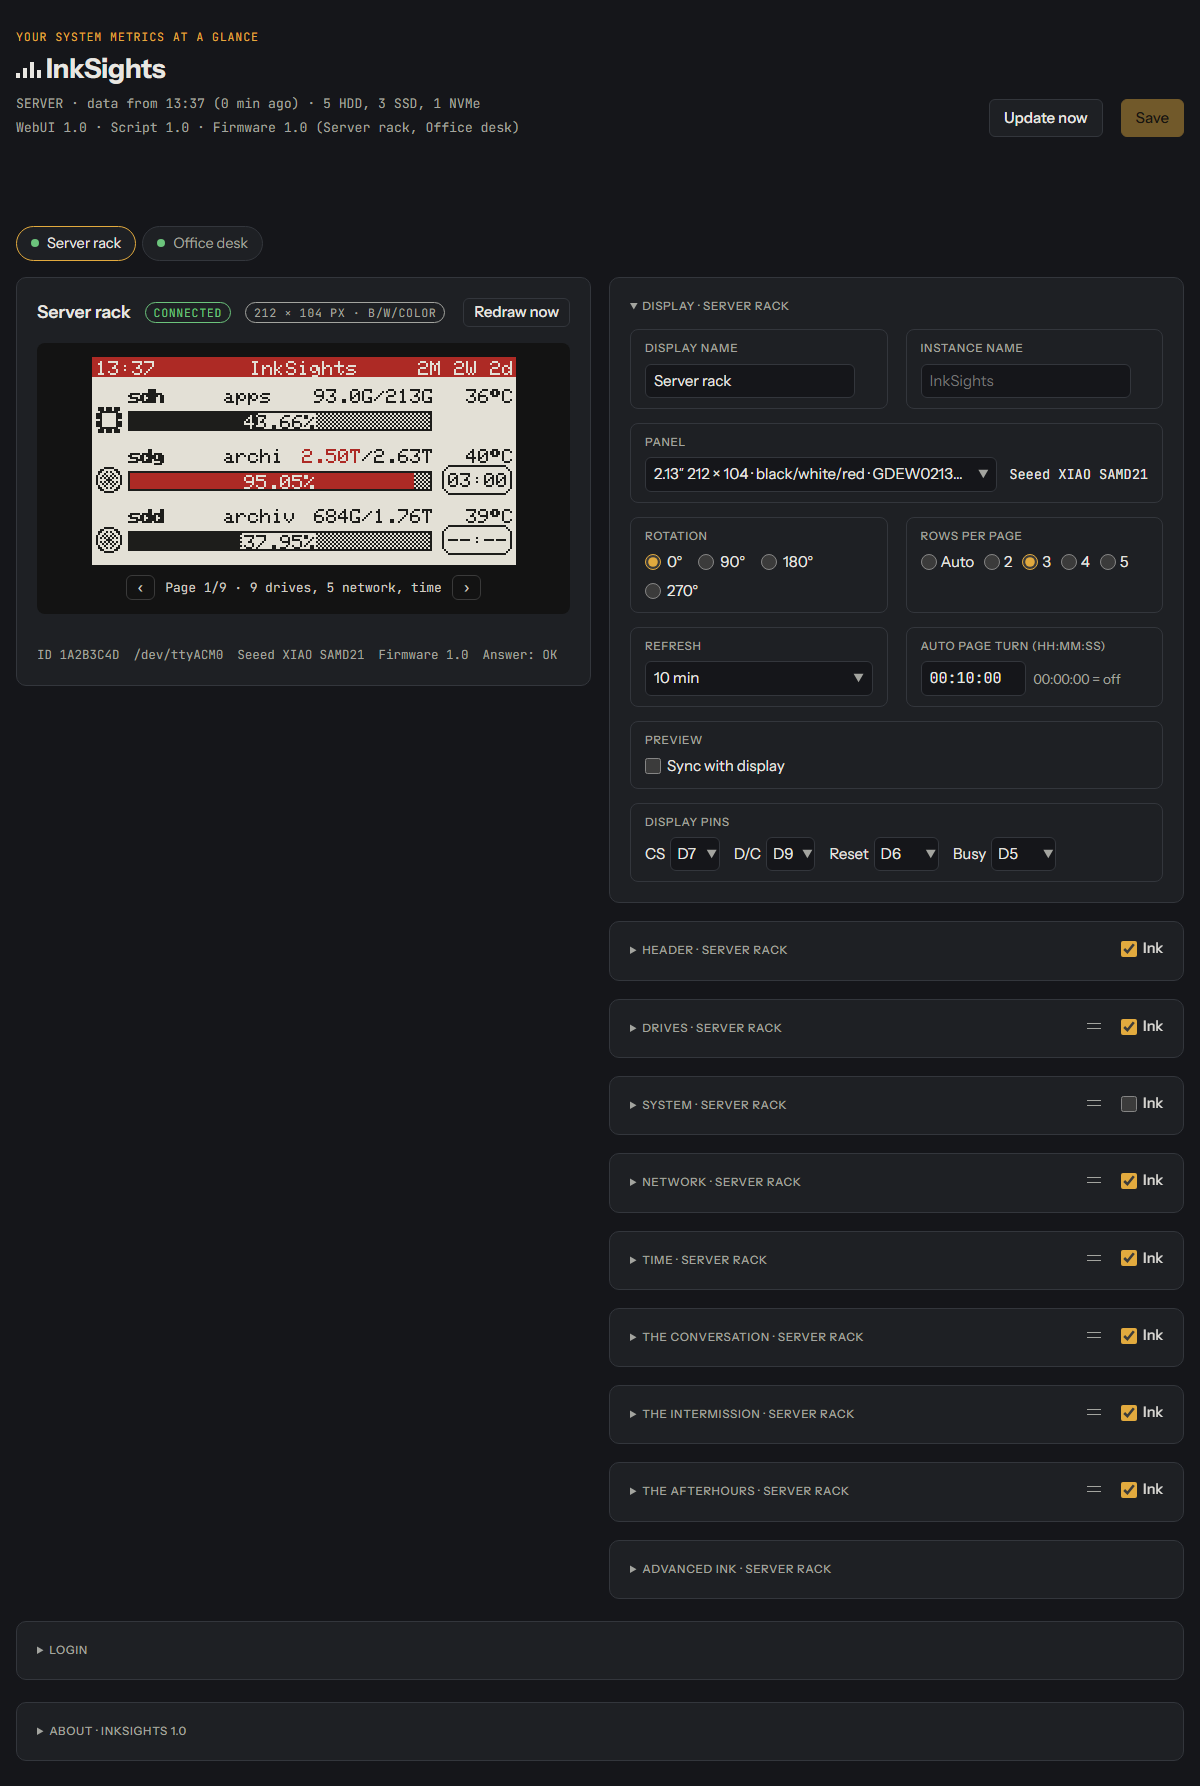
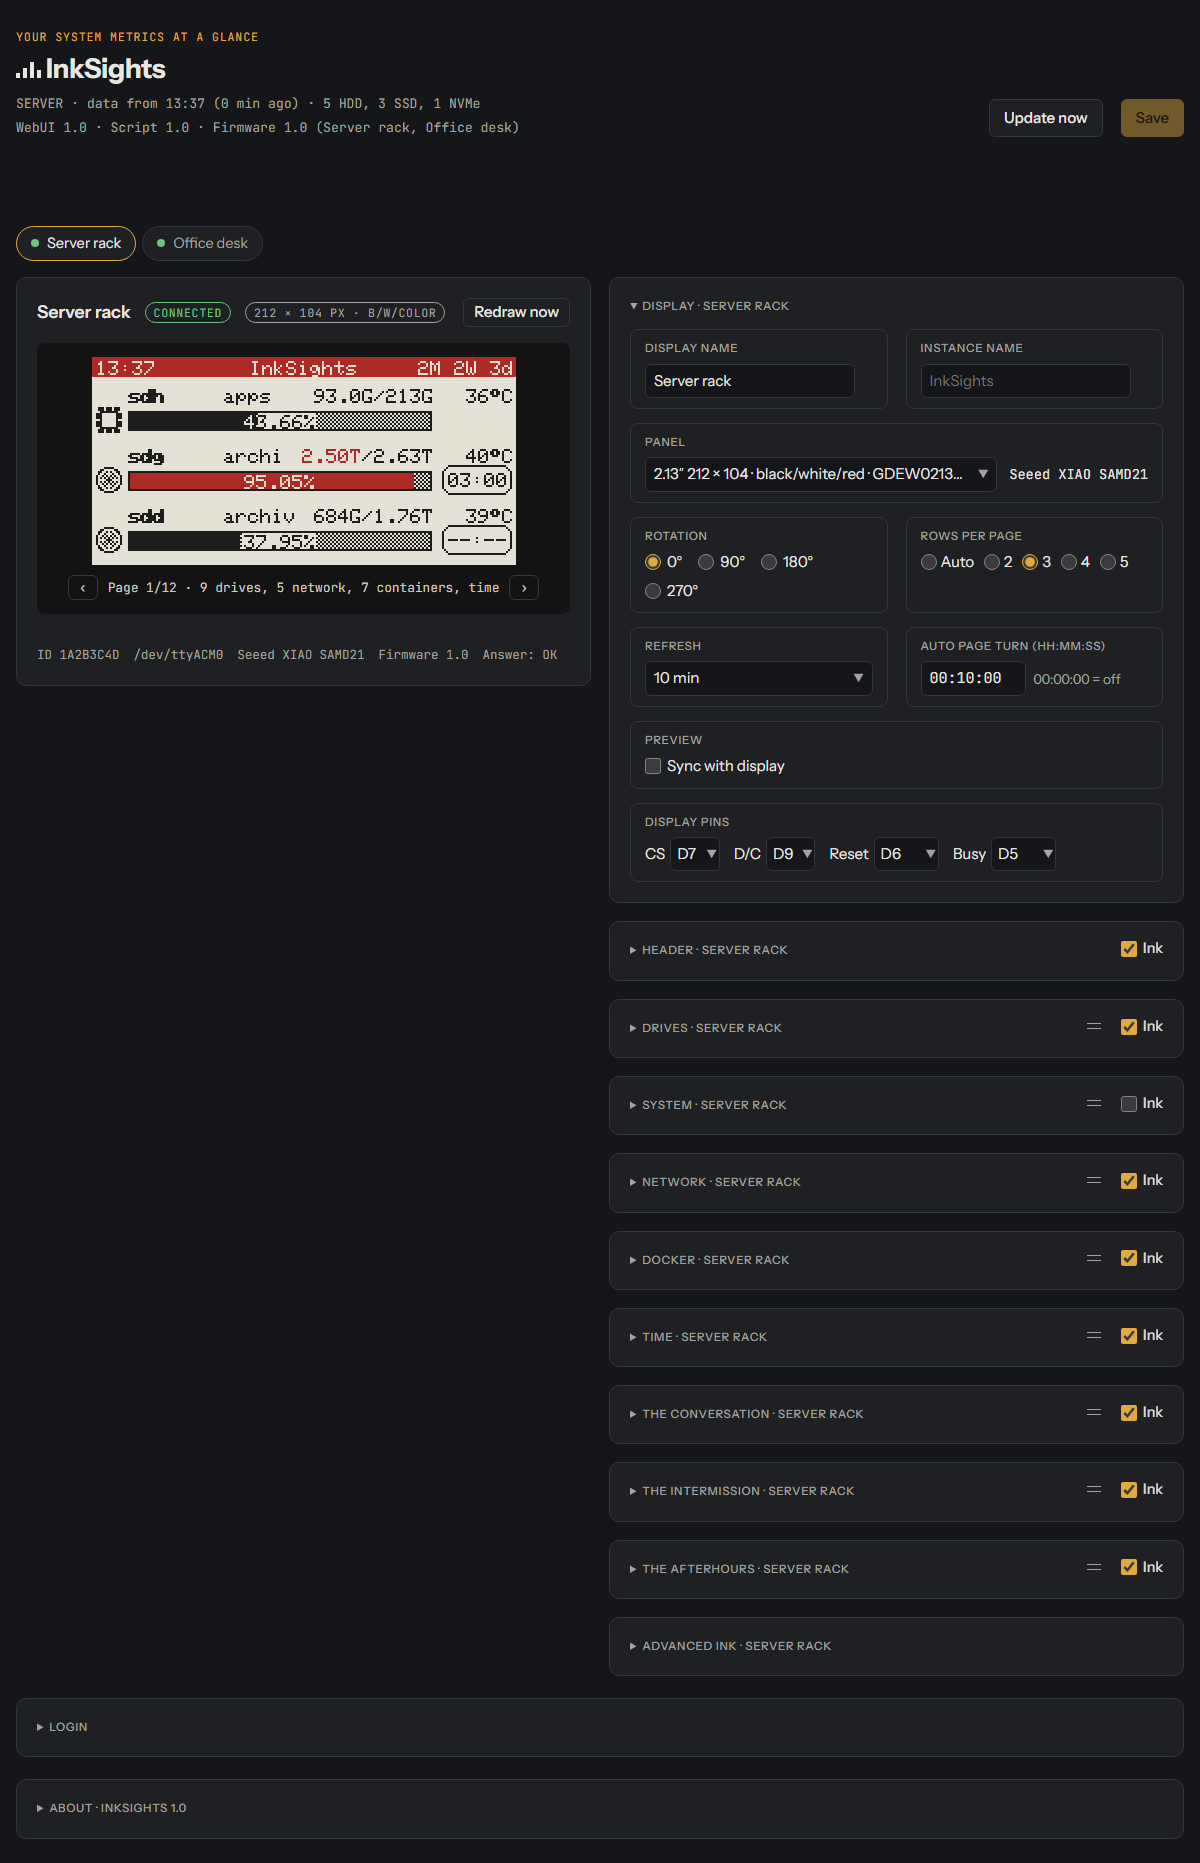
Docker On cue and card layout, settings page address without http://
- Simulator: Docker On cue (the page only when the filter finds a
  container), Show over the whole width, Icons | Highlight | Color
  highlight in one row; settings page pictures with the Docker card
- Settings page address: example http://server:8099 everywhere;
  typed without http:// it is put in front (settings page, USB page,
  the board's own setup page)

diff --git a/server/web/inksights-ui.js b/server/web/inksights-ui.js
@@ -112,6 +112,8 @@
   }
   const HOST_RE = /^[A-Za-z0-9-]{1,32}$/;
   const SERVER_RE = /^https?:\/\/[^\s|]{1,120}$/;
+  // the address of the settings page as typed: "server:8099" gets "http://" in front (user)
+  const serverAddr = v => { v = String(v || "").trim(); return v && !/^https?:\/\//i.test(v) ? "http://" + v : v; };
   const DEFAULT_WARN = 85;
   const DEFAULT_PAGE = 600;
   const DEFAULT_TITLE = "InkSights";   // the title of the top line when none is set (user; was the host name)
@@ -306,6 +308,7 @@
       if (![0, 1, 2, 3].includes(s.dockerFilter)) s.dockerFilter = 0;
       if (s.dockerColor !== 0 && s.dockerColor !== 1) s.dockerColor = 1;   // errors and updates in the third colour
       if (s.dockerHi !== 0 && s.dockerHi !== 1) s.dockerHi = 0;   // errors and updates in a box
+      if (s.dockerCue !== 0 && s.dockerCue !== 1) s.dockerCue = 0;   // On cue: the page only when the filter finds a container
       // order of the containers: state (errors, updates, the rest), name or custom; hidden ones (names)
       if (!["state", "name", "manual"].includes(s.dockerSort)) s.dockerSort = "state";
       if (!Array.isArray(s.dockerOrder)) s.dockerOrder = [];
@@ -379,7 +382,7 @@
           if (w.ssid.length > 32) out.push(`${who}: WiFi network max. 32 characters.`);
           if (typeof w.pass === "string" && w.pass && (w.pass.length < 8 || w.pass.length > 63)) out.push(`${who}: WiFi password 8 to 63 characters.`);
           if (w.host && !HOST_RE.test(w.host)) out.push(`${who}: host name only letters, digits and -, max. 32.`);
-          if (w.server && !SERVER_RE.test(w.server)) out.push(`${who}: settings page address like http://hostname:8099.`);
+          if (w.server && !SERVER_RE.test(serverAddr(w.server))) out.push(`${who}: settings page address like http://server:8099.`);
           if (typeof w.apPass === "string" && w.apPass && (w.apPass.length < 8 || w.apPass.length > 63)) out.push(`${who}: access point password 8 to 63 characters.`);
           if (!Number.isInteger(w.apDelay) || w.apDelay < 0 || w.apDelay > MAX_AP_DELAY) out.push(`${who}: access point after 0 to ${MAX_AP_DELAY} seconds.`);
         }
@@ -920,7 +923,9 @@
               wifiInput("ssid", "WiFi network", { maxlength: "32" }),
               wifiInput("pass", "Password", { type: "password", maxlength: "63", value: "", placeholder: w.passSet ? "unchanged" : "" })),
             el("div", { class: "wifi-box boxed" },
-              wifiInput("server", "Settings page", { maxlength: "120", placeholder: backend.serverAddress || "http://hostname:8099" }),
+              wifiInput("server", "Settings page", { maxlength: "120", placeholder: backend.serverAddress || "http://server:8099",
+                // typed without http://: it is put in front when the field is left
+                onchange: e => { e.target.value = w.server = serverAddr(e.target.value); changed(); } }),
               wifiInput("host", "Host name", { maxlength: "32", placeholder: `inksights-${id.toLowerCase()}` })),
             el("div", { class: "wifi-box boxed" },
               wifiInput("apSsid", "Access point name", { maxlength: "32", placeholder: DEFAULT_AP_SSID }),
@@ -1018,17 +1023,23 @@
       const dockerColBox = el("div", { class: "field boxed" }, el("span", { class: "label" }, "Color highlight"),
         radios("dockercol", [[1, "On"], [0, "Off"]], s.dockerColor, v => { s.dockerColor = v; }));
       setDisabled(dockerColBox, panel.colors === 2);
+      const dockerCueTick = el("input", { type: "checkbox", checked: s.dockerCue === 1, disabled: !s.dockerFilter,
+        onchange: e => { s.dockerCue = e.target.checked ? 1 : 0; pages[id] = 0; redraw(); } });
       const dockerCard = backend.docker ? subCard("dockerOpen", "Docker", true, "showDocker",
+        // Show over the whole width, below it Icons | Highlight | Color highlight in one row (user)
         el("div", { class: "form" },
-          el("div", { class: "wide one-two" },   // Icons a third, Show two thirds (user); Color highlight below Icons
+          el("div", { class: "field wide boxed" }, el("span", { class: "label" }, "Show"),
+            // On cue at the right end of the same row (user): the Docker page only when the filter finds a
+            // container; with All it always would
+            (() => { const r = radios("dockerfilter", [[0, "All"], [1, "Errors"], [2, "Updates"], [3, "Errors and updates"]], s.dockerFilter, v => { s.dockerFilter = v; dockerCueTick.disabled = !v; });
+              r.append(el("label", { class: "check push-right" }, dockerCueTick, "On cue")); return r; })()),
+          el("div", { class: "wide trio" },
             el("div", { class: "field boxed" }, el("span", { class: "label" }, "Icons"),
               radios("dockericons", [[1, "On"], [0, "Off"]], s.dockerIcons, v => { s.dockerIcons = v; })),
-            el("div", { class: "field boxed" }, el("span", { class: "label" }, "Show"),
-              radios("dockerfilter", [[0, "All"], [1, "Errors"], [2, "Updates"], [3, "Errors and updates"]], s.dockerFilter, v => { s.dockerFilter = v; })),
-            dockerColBox,
-            // beside Color highlight: errors and updates in a box (user)
+            // errors and updates in a box (user)
             el("div", { class: "field boxed" }, el("span", { class: "label" }, "Highlight"),
-              radios("dockerhi", [[1, "On"], [0, "Off"]], s.dockerHi, v => { s.dockerHi = v; })))),
+              radios("dockerhi", [[1, "On"], [0, "Off"]], s.dockerHi, v => { s.dockerHi = v; })),
+            dockerColBox)),
         // the order of the containers and which ones show, like the network interfaces (user)
         el("fieldset", { class: `set-${id}` },
           el("details", { class: "fold boxed field", open: pref(id, "dockerOrderOpen", true), ontoggle: e => setPref(id, "dockerOrderOpen", e.target.open) },
@@ -1530,7 +1541,7 @@
       const displays = {};
       for (const { id } of displayList()) {
         const s = settingsFor(id), w = s.wifi;
-        displays[id] = { ...s, wifi: { ssid: w.ssid, host: w.host, server: w.server, apOn: w.apOn, apDelay: w.apDelay, apSsid: w.apSsid,
+        displays[id] = { ...s, wifi: { ssid: w.ssid, host: w.host, server: serverAddr(w.server), apOn: w.apOn, apDelay: w.apDelay, apSsid: w.apSsid,
           pass: typeof w.pass === "string" ? w.pass : null, apPass: typeof w.apPass === "string" && w.apPass ? w.apPass : null } };
       }
       $("save").disabled = true;
@@ -1912,6 +1923,6 @@
       frameFor: (id, st) => { const e = displayList().find(x => x.id === id); return e ? buildFor(e, st) : null; } };
   }
 
-  window.InkSightsUI = { start, BOARDS, DEFAULT_BOARD, PANELS, YELLOW_PANELS, panelLabel, pinLabel, PIN_NONE, PIN_NAMES, HOST_RE, SERVER_RE,
+  window.InkSightsUI = { start, BOARDS, DEFAULT_BOARD, PANELS, YELLOW_PANELS, panelLabel, pinLabel, PIN_NONE, PIN_NAMES, HOST_RE, SERVER_RE, serverAddr,
     DEFAULT_AP_SSID, DEFAULT_AP_PASS, DEFAULT_AP_DELAY, MAX_AP_DELAY, hexText };
 })();

diff --git a/server/web/inksights-render.js b/server/web/inksights-render.js
@@ -1711,11 +1711,15 @@
     let rx = null, done = null;
     for (const raw of text.split("\n")) {
       const line = raw.replace(/\r/g, "").slice(0, 127);
-      if (line === "#BEGIN") { rx = { host: "", time: "", rows: 0, warn: L.WARN_PCT, timer: 0, ringDir: 0, icons: 1, pctBar: 0, fast: 0, uptime: -1, upMonths: 0, wifiPage: 0, wifiIcons: true, netBar: 0, netIcons: 1, driveTemp: 0, stby: 0, headInv: 0, headCol: 0, timeFmt: 0, screens: 7, headLine: 1, order: PAGE_ORDER, clockHead: 0, headFill: 0, clock: null, disks: [], nets: [], containers: [], dockerPage: 0, dockerFilter: 0, dockerColor: 1, dockerHi: 0, sys: null, page: 0 }; continue; }
+      if (line === "#BEGIN") { rx = { host: "", time: "", rows: 0, warn: L.WARN_PCT, timer: 0, ringDir: 0, icons: 1, pctBar: 0, fast: 0, uptime: -1, upMonths: 0, wifiPage: 0, wifiIcons: true, netBar: 0, netIcons: 1, driveTemp: 0, stby: 0, headInv: 0, headCol: 0, timeFmt: 0, screens: 7, headLine: 1, order: PAGE_ORDER, clockHead: 0, headFill: 0, clock: null, disks: [], nets: [], containers: [], dockerPage: 0, dockerFilter: 0, dockerColor: 1, dockerHi: 0, dockerCue: 0, sys: null, page: 0 }; continue; }
       if (!rx) continue;
-      if (line === "#END") { done = rx; rx = null; continue; }
+      if (line === "#END") {
+        // Docker On cue: nothing the filter found, no Docker page at all
+        if (rx.dockerCue && !rx.containers.length) rx.dockerPage = 0;
+        done = rx; rx = null; continue;
+      }
       if (line.startsWith("H|")) {
-        const f = splitFields(line, 35);
+        const f = splitFields(line, 36);
         if (f.length >= 3) {
           rx.host = f[1].slice(0, 16); rx.time = f[2].slice(0, 5);
           rx.rows = f.length >= 4 ? clamp(atoi(f[3]), 0, 6) : 0;
@@ -1751,6 +1755,7 @@
           rx.dockerFilter = f.length >= 33 ? clamp(atoi(f[32]), 0, 3) : 0;   // shown: 0 all, 1 errors, 2 updates, 3 both
           rx.dockerColor = f.length >= 34 && f[33] === "0" ? 0 : 1;   // errors and updates in the third colour (colour panels)
           rx.dockerHi = f.length >= 35 && f[34] === "1" ? 1 : 0;     // errors and updates highlighted: in a box
+          rx.dockerCue = f.length >= 36 && f[35] === "1" ? 1 : 0;    // On cue: the page only when the filter finds a container
         }
       } else if (line.startsWith("S|")) {
         // system page: components (C R N V S) | cpu % | cpu °C | cpu W | RAM used MiB | ZFS cache MiB |
@@ -1889,8 +1894,9 @@
       s.showDocker === 1 ? (s.dockerIcons === 0 ? 2 : 1) : 0,   // H field 32: Docker pages, 1 with symbols, 2 without
       s.showDocker === 1 ? s.dockerFilter || 0 : 0,   // H field 33: the containers shown: 0 all, 1 errors, 2 updates, 3 both
       s.showDocker === 1 && s.dockerColor === 0 ? 0 : 1,   // H field 34: errors and updates in the third colour (Color highlight)
-      s.showDocker === 1 && s.dockerHi === 1 ? 1 : 0];   // H field 35: errors and updates highlighted, in a box
-    const defaults = [0, 0, 1, 0, 0, -1, 0, 0, 0, DEFAULT_LAYOUT, 1, 0, 1, 0, 0, 0, 0, 0, 7, 1, PAGE_ORDER, 0, 0, 0, 0, 0, 1, 0];
+      s.showDocker === 1 && s.dockerHi === 1 ? 1 : 0,   // H field 35: errors and updates highlighted, in a box
+      s.showDocker === 1 && s.dockerCue === 1 && s.dockerFilter ? 1 : 0];   // H field 36: On cue (only with a filter)
+    const defaults = [0, 0, 1, 0, 0, -1, 0, 0, 0, DEFAULT_LAYOUT, 1, 0, 1, 0, 0, 0, 0, 0, 7, 1, PAGE_ORDER, 0, 0, 0, 0, 0, 1, 0, 0];
     while (extra.length && extra[extra.length - 1] === defaults[extra.length - 1]) extra.pop();
     const head = [`H|${title}|${time}|${s.rows || 0}|${s.warn ?? L.WARN_PCT}|${Math.trunc((s.rot || 0) / 90)}|${s.page ?? 600}`, ...extra].join("|");
     const lines = ["#BEGIN", head];

diff --git a/server/web/inksights-usb.js b/server/web/inksights-usb.js
@@ -317,7 +317,7 @@
       const box = el("form", { class: "wifi-grid field wide boxed", autocomplete: "off", onsubmit: e => e.preventDefault() },   // a form, so browsers handle the password fields properly
         input("ssid", "WiFi network", { maxlength: "32", value: pong.ssid }),
         input("pass", "Password", { type: "password", maxlength: "63", value: "", placeholder: pong.passSet ? "unchanged" : "" }),
-        input("server", "Settings page", { maxlength: "120", value: pong.server, placeholder: "http://hostname:8099" }),
+        input("server", "Settings page", { maxlength: "120", value: pong.server, placeholder: "http://server:8099" }),
         input("host", "Host name", { maxlength: "32", value: pong.host, placeholder: `inksights-${pong.id.toLowerCase()}` }),
         el("div", { class: "field" }, el("span", { class: "label" }, "Setup access point"),
           el("div", { class: "choices" }, el("label", { class: "check" }, apOnBox.on, "On"), el("label", { class: "check" }, apOnBox.off, "Off"))),
@@ -342,13 +342,13 @@
       const out = { pins, panel, pinsChanged: !pong.pins || panel !== pong.panel || pins.some((p, i) => p !== pong.pins[i]), wifi: null };
       if (pong.wifi && pong.settings) {
         const w = {
-          ssid: wifi.ssid.value.trim(), pass: wifi.pass.value, server: wifi.server.value.trim(), host: wifi.host.value.trim(),
+          ssid: wifi.ssid.value.trim(), pass: wifi.pass.value, server: UI.serverAddr(wifi.server.value), host: wifi.host.value.trim(),   // without http://: put in front
           apOn: apOnBox.on.checked, apDelay: wifi.apDelay.value.trim(), apSsid: wifi.apSsid.value.trim(), apPass: wifi.apPass.value,
         };
         const ctrl = s => /[\x00-\x1f\x7f]/.test(s);
         if (bytes(w.ssid) > 32 || ctrl(w.ssid)) return "WiFi network max. 32 characters, no control characters.";
         if (w.pass && (w.pass.length < 8 || w.pass.length > 63 || ctrl(w.pass))) return "WiFi password 8 to 63 characters.";
-        if (w.server && !UI.SERVER_RE.test(w.server)) return "Settings page address like http://hostname:8099.";
+        if (w.server && !UI.SERVER_RE.test(w.server)) return "Settings page address like http://server:8099.";
         if (w.host && !UI.HOST_RE.test(w.host)) return "Host name only letters, digits and -, max. 32.";
         if (!/^\d{1,4}$/.test(w.apDelay) || Number(w.apDelay) > UI.MAX_AP_DELAY) return `Access point after 0 to ${UI.MAX_AP_DELAY} seconds.`;
         if (bytes(w.apSsid) > 32 || ctrl(w.apSsid)) return "Access point name max. 32 characters, no control characters.";

diff --git a/server/web/inksights.css b/server/web/inksights.css
@@ -146,10 +146,9 @@ input:disabled, select:disabled { opacity: 0.45; }
 .form { display: grid; grid-template-columns: repeat(2, minmax(0, 1fr)); gap: 14px 18px; min-width: 0; }
 @media (max-width: 560px) { .form { grid-template-columns: minmax(0, 1fr); } }
 .form .wide { grid-column: 1 / -1; }
+.choices > .push-right { margin-left: auto; }   /* a tick at the right end of a row of choices (Docker: On cue) */
 .trio { display: grid; grid-template-columns: repeat(3, minmax(0, 1fr)); gap: 14px 18px; min-width: 0; }   /* three frames in a row, the next row in the same columns */
 @media (max-width: 560px) { .trio { grid-template-columns: minmax(0, 1fr); } }
-.one-two { display: grid; grid-template-columns: minmax(0, 1fr) minmax(0, 2fr); gap: 14px 18px; min-width: 0; }   /* a narrow frame and a wide one (Docker: Icons | Show) */
-@media (max-width: 560px) { .one-two { grid-template-columns: minmax(0, 1fr); } }
 .col { display: grid; gap: 14px; align-content: start; min-width: 0; }
 .group { display: grid; grid-template-columns: repeat(2, minmax(0, 1fr)); gap: 14px 18px; border: 1px solid var(--line); border-radius: 8px; padding: 12px 14px; min-width: 0; }
 @media (max-width: 560px) { .group { grid-template-columns: minmax(0, 1fr); } }

diff --git a/simulator/simulator.html b/simulator/simulator.html
@@ -415,7 +415,7 @@ const ui = InkSightsUI.start({
   frameOverride: () => (sim.source === "paste" ? sim.paste : null),
   // "Live values": the frame of a display with fast refresh from changing values (none when off)
   live: async id => (sim.liveOn ? { frame: ui.frameFor(id, stateNow(true)), age: 0 } : { frame: null, age: -1 }),
-  serverAddress: "http://hostname:8099",
+  serverAddress: "http://server:8099",
   titleSuffix: " · Simulator",
 });
 

diff --git a/server/web/inksights-web.py b/server/web/inksights-web.py
@@ -404,7 +404,7 @@ def validate_wifi(did, w, old):
     if out["host"] and not HOST_RE.match(out["host"]):
         raise SettingsError(f"Display {did}: host name only letters, digits and -, max. 32.")
     if out["server"] and not SERVER_RE.match(out["server"]):
-        raise SettingsError(f"Display {did}: settings page address like http://hostname:8099.")
+        raise SettingsError(f"Display {did}: settings page address like http://server:8099.")
     out["apOn"] = w.get("apOn", True) is not False
     d = w.get("apDelay", DEFAULT_AP_DELAY)
     if not is_int(d) or not 0 <= d <= MAX_AP_DELAY:

diff --git a/examples/README.md b/examples/README.md
@@ -193,7 +193,8 @@ stays in view while the page scrolls) and its cards on the right. On the left pi
 **Display** card open (names, panel, rotation, rows per page, refresh, page turn, Sync with display, display
 pins), on the right picture the 4.2″ with its **Header** card open (title, places, colours, divider line). The
 other cards are folded, each with its **Ink** tick that switches that page on or off and its grip (two lines) to
-change the order of the pages. Below the page cards the cards of the three pictures (**The Conversation**, **The
+change the order of the pages; among them **Docker** below Network (so far only in the simulator, where these pictures
+come from). Below the page cards the cards of the three pictures (**The Conversation**, **The
 Intermission**, **The Afterhours**) and **Advanced Ink**. At the bottom, for the whole page, the **Login** card
 (the login of the page, off by default) and the **About** card (versions, project links, license, support), both
 folded.

diff --git a/README.md b/README.md
@@ -535,8 +535,8 @@ Boards with WiFi work over USB without any WiFi setup. To run a display over WiF
 
 1. **Set up the WiFi**, in one of three ways:
    - **On the settings page**, while the board is plugged into the system: open its **WiFi** card, enter the
-     WiFi network, password and the address of the settings page (e.g. `http://192.168.1.10:8099`), *Save*. The
-     settings go to the board over USB with the next update.
+     WiFi network, password and the address of the settings page (e.g. `http://192.168.1.10:8099`; `http://` may be
+     left out, it is put in front), *Save*. The settings go to the board over USB with the next update.
    - **On the board itself:** without a WiFi network the board opens its own access point **InkSights** (password
      **ink!1234**, also on the start screen).
      - Connect your phone to it; the setup page opens by itself. That takes a few seconds on most phones, up to
